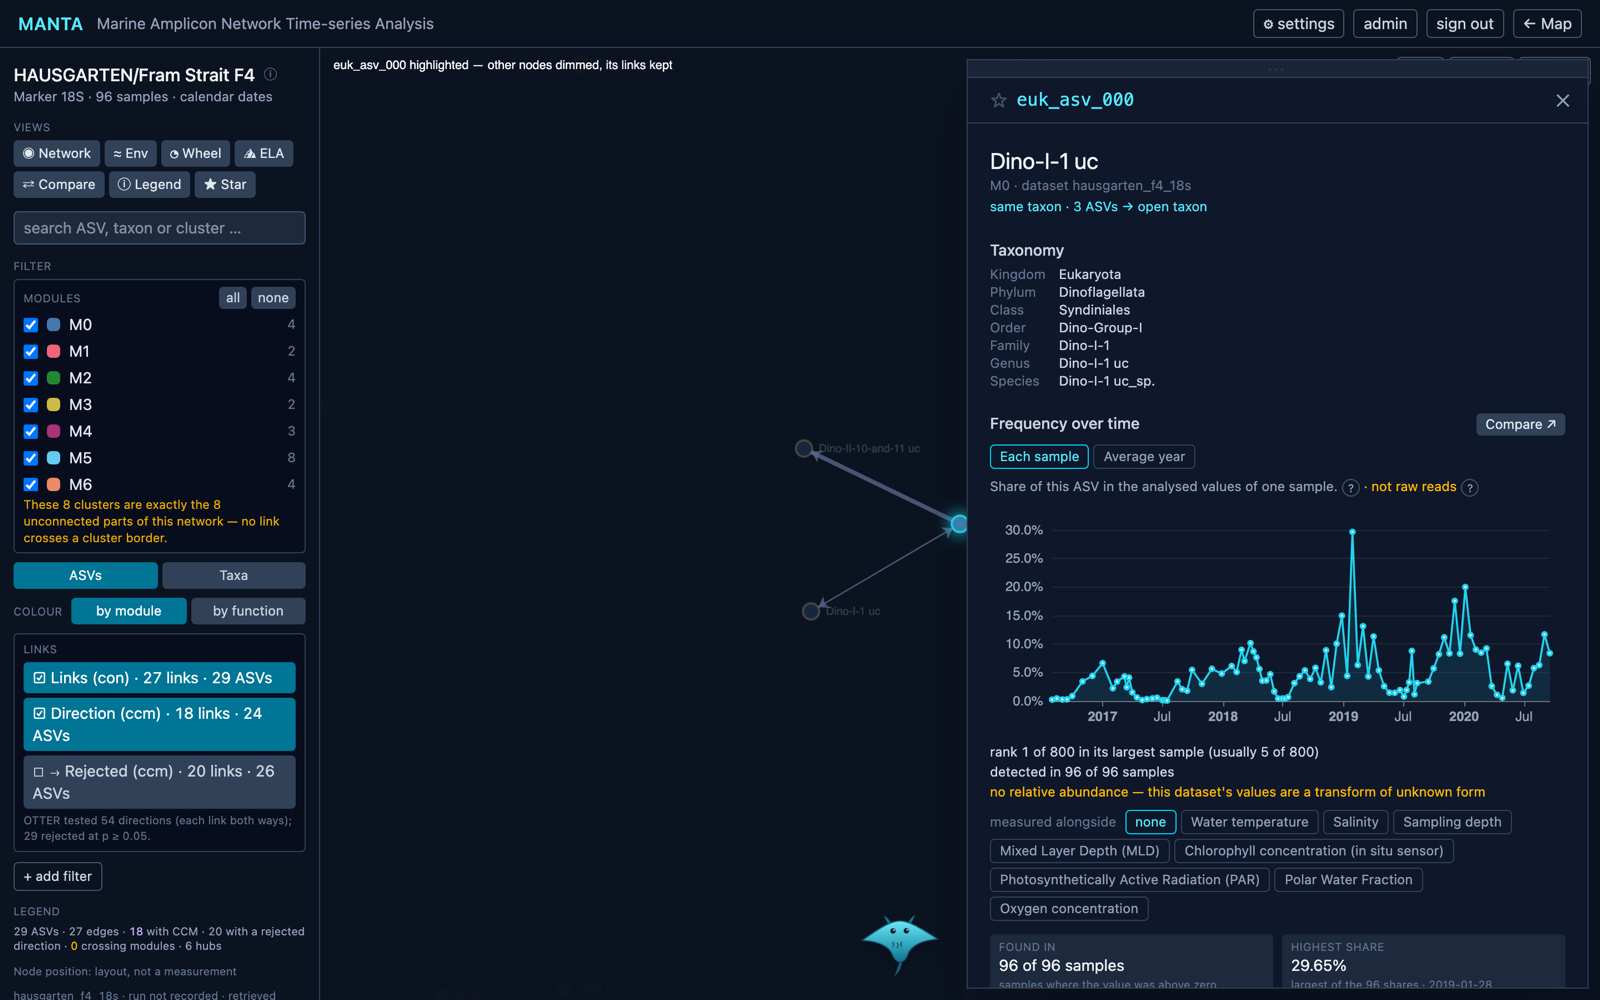
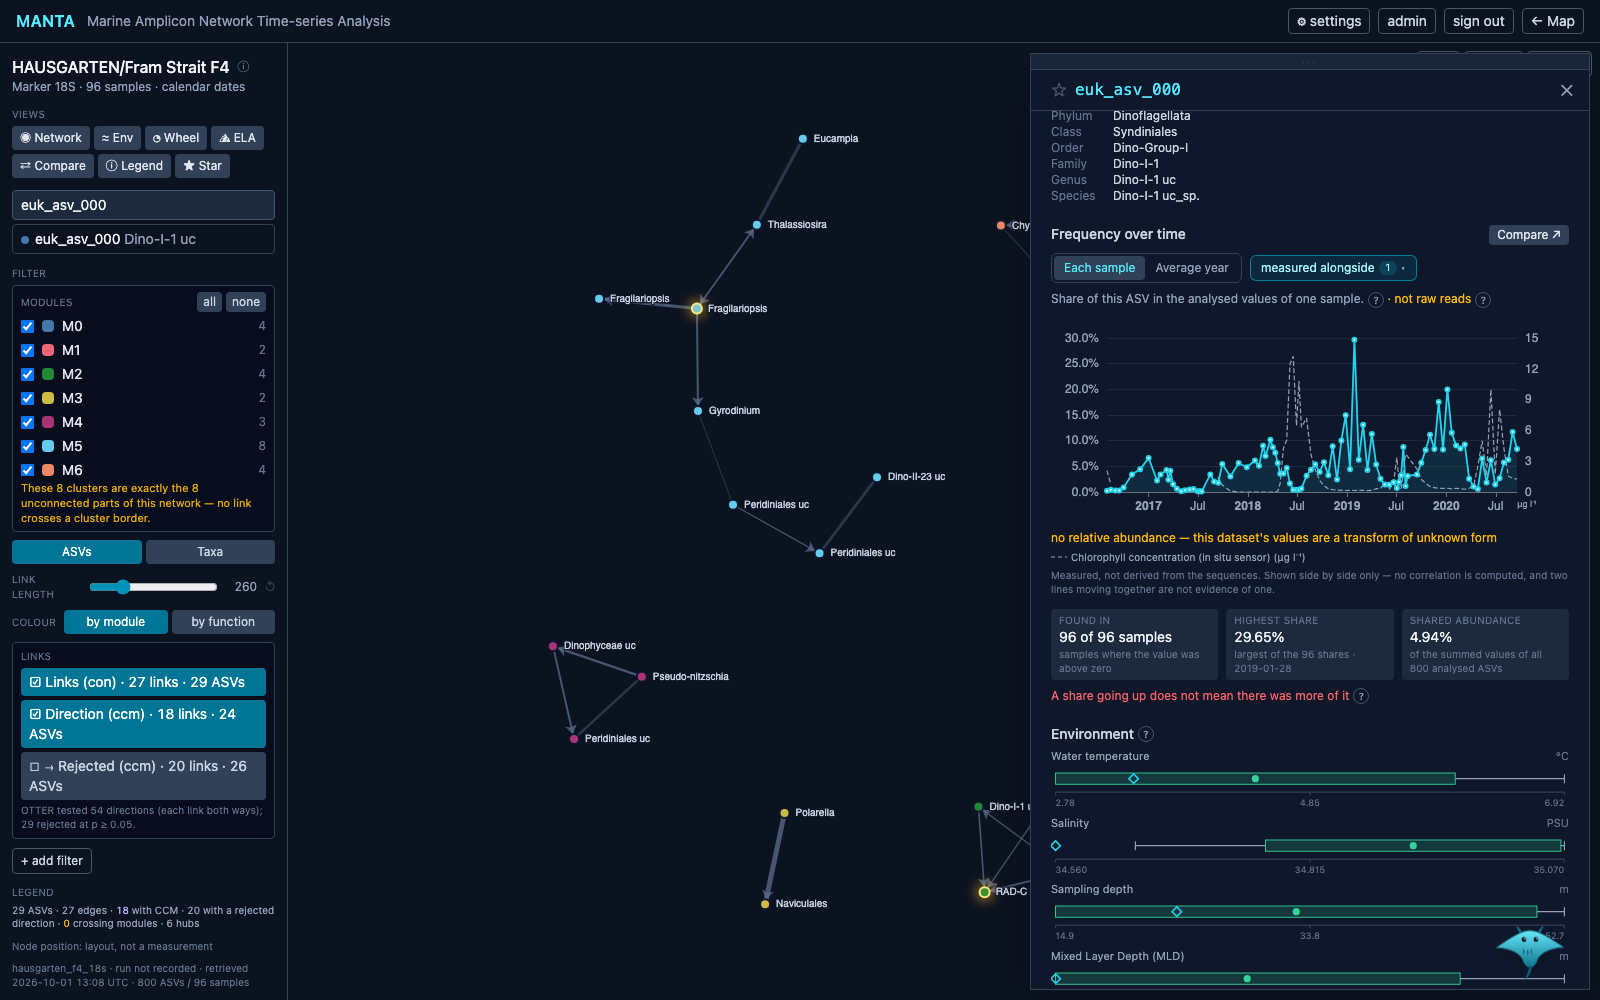
Fresh screenshots, and three captions that had stopped being true
The four images were taken on 14 September and showed an interface that no longer exists: the year
wheel with two long rows of buttons and no daylight ring, the ASV page with the old environment
table and a nine-button row, the map with plain dots. Anyone who looked at the picture and then
cloned got something other than what was promised.

Retaken from the running build, same sizes and framing. Three captions were stale as well: the
Fourier spectrum left the ASV page, which now carries the environmental box plot and a small
network of the ASV's neighbours; the wheel gained the daylight ring and season marks computed from
light and place; on the map, points merge and carry the number of datasets they stand for.

diff --git a/README.md b/README.md
@@ -49,15 +49,16 @@ tools that look values up in the graph instead of making them up.
 <td width="50%" valign="top">
 
 **World map with bathymetry.** Datasets as points on a globe, water depth from GEBCO in twelve
-bands.
+bands. Points at one place, and points that meet as you zoom out, merge and carry the number of
+datasets they stand for.
 
 <img src="docs/images/map.png" alt="World map with datasets and water depth">
 
 </td>
 <td width="50%" valign="top">
 
-**ASV page.** Taxonomy, abundance over time, seasonality, neighbours, Fourier spectrum and the
-environment measured alongside.
+**ASV page.** Taxonomy, abundance over time with any measured variable laid beside it, the
+conditions it was found under as a box plot, and a small network of its neighbours.
 
 <img src="docs/images/asv.png" alt="The detail page of one ASV over the network">
 
@@ -66,8 +67,9 @@ environment measured alongside.
 <tr>
 <td width="50%" valign="top">
 
-**Year wheel.** When each module sits above its own annual mean, one environmental variable as the
-outer band, and all modules stacked over all samples below.
+**Year wheel.** When each module sits above its own annual mean, daylight and one measured
+variable as rings, the season marks computed from light and place, and all modules stacked over
+all samples below.
 
 <img src="docs/images/wheel.png" alt="The year wheel with module windows and a temperature band">
 
